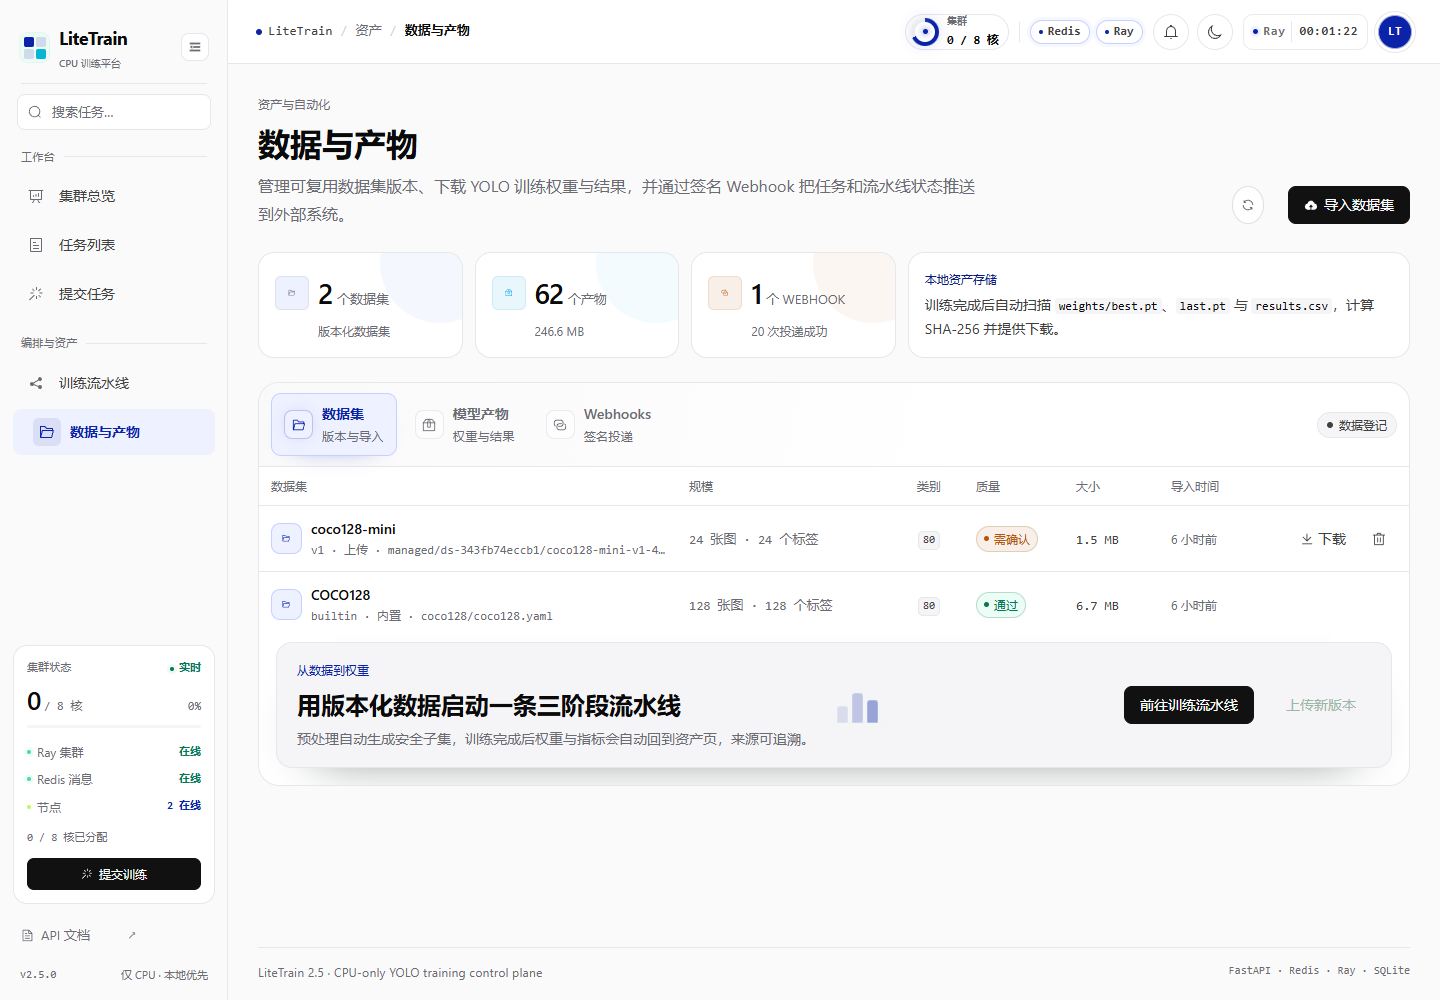
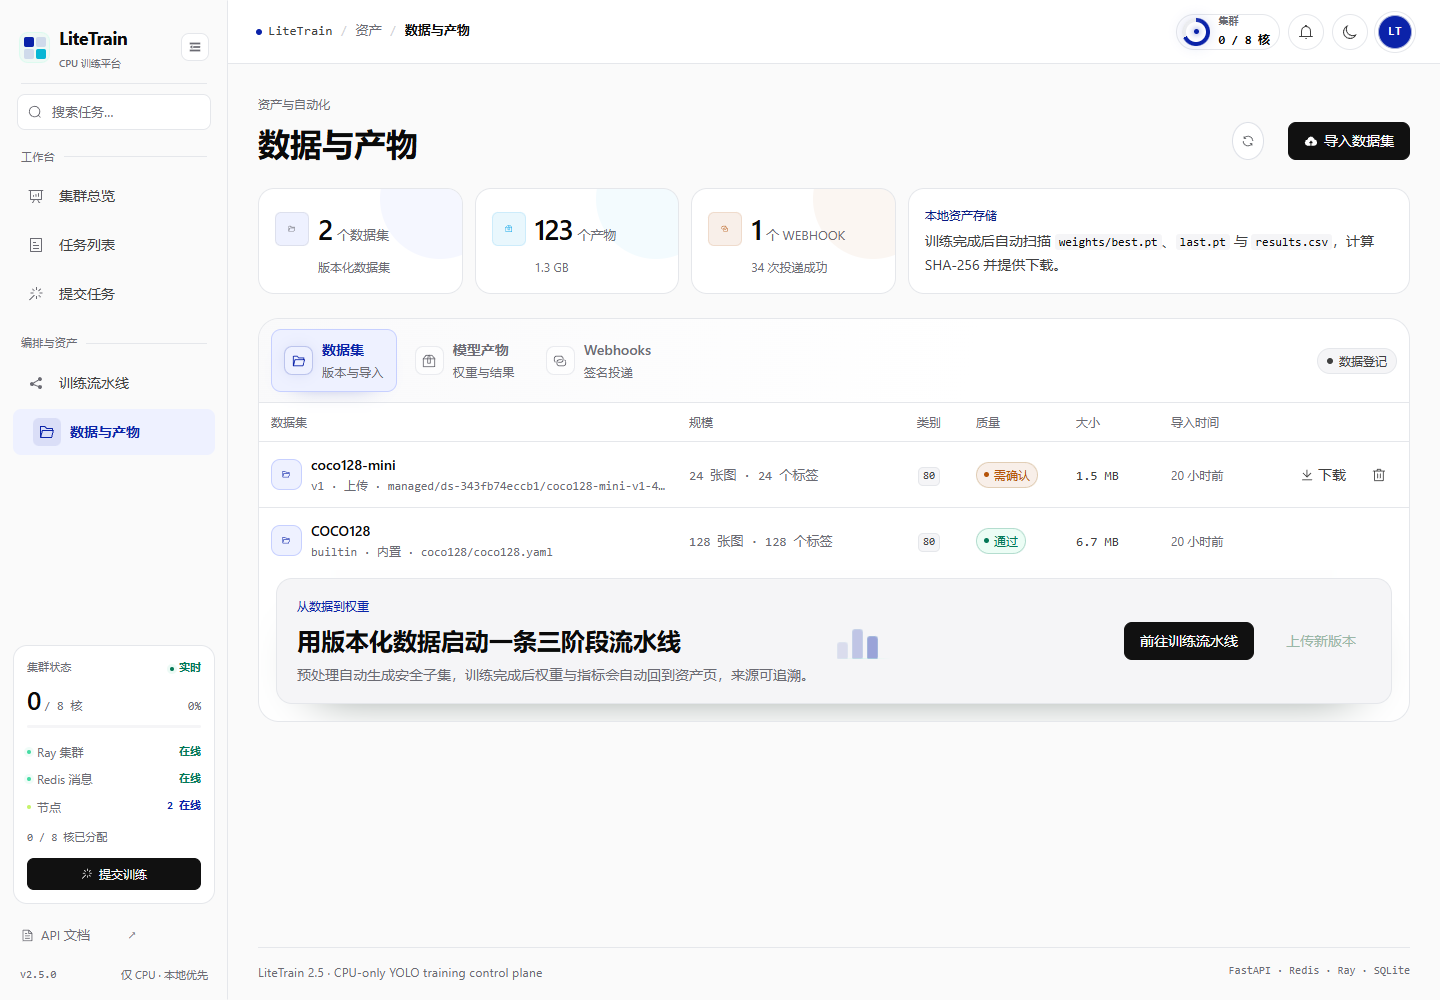
style(web): remove assets page intro copy

diff --git a/frontend/src/views/AssetsView.vue b/frontend/src/views/AssetsView.vue
@@ -485,9 +485,6 @@ onBeforeUnmount(() => {
       <div class="page-heading">
         <span class="eyebrow">资产与自动化</span>
         <h1 class="page-title">数据与产物</h1>
-        <p class="page-subtitle">
-          管理可复用数据集版本、下载 YOLO 训练权重与结果，并通过签名 Webhook 把任务和流水线状态推送到外部系统。
-        </p>
       </div>
       <div class="page-actions">
         <el-button :icon="Refresh" :loading="refreshing" circle title="刷新" @click="load(true)" />
